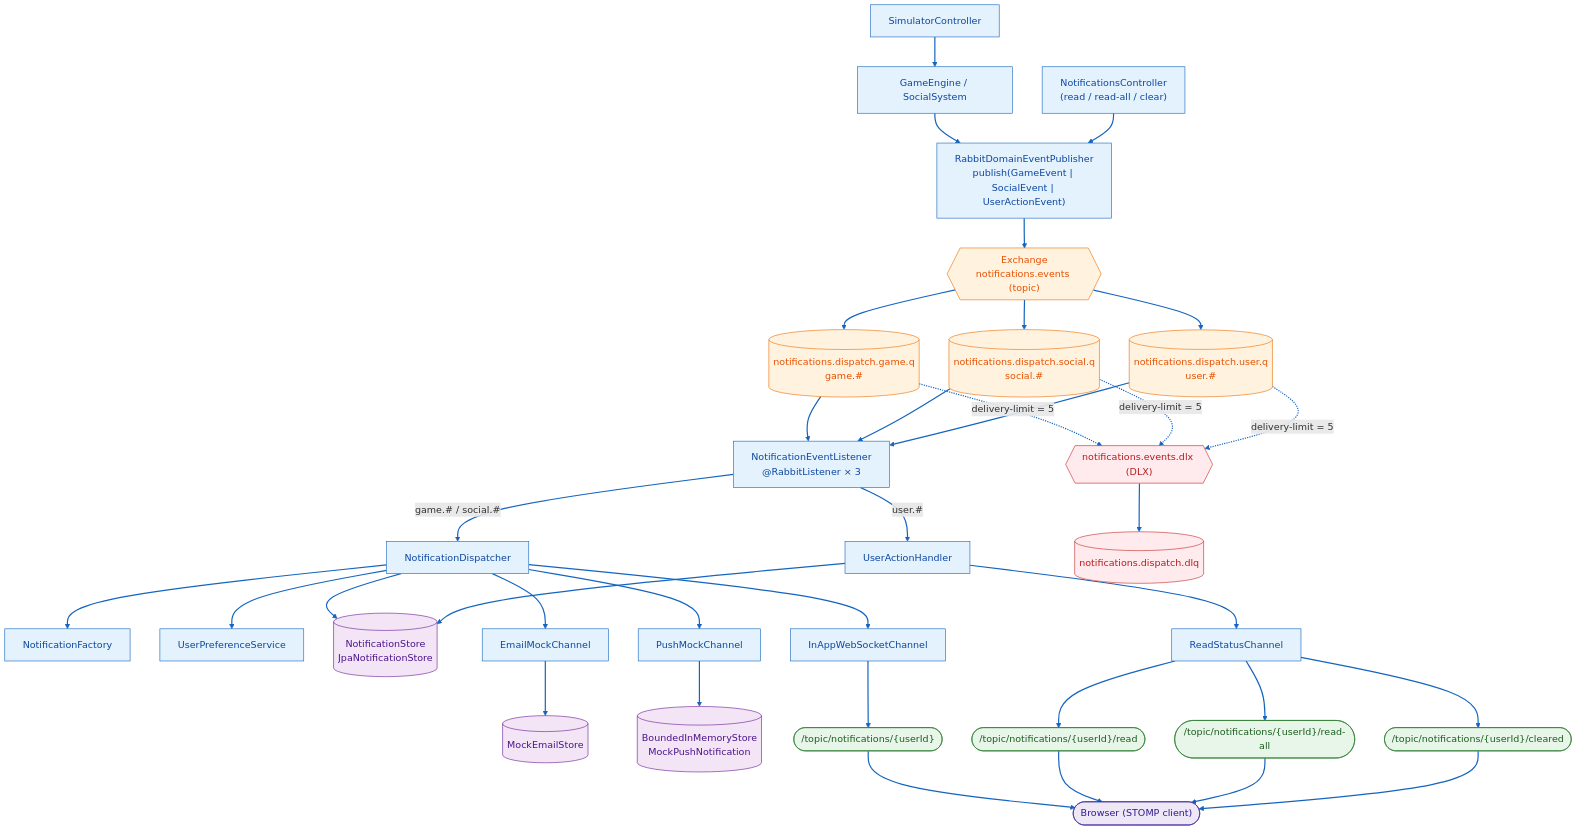
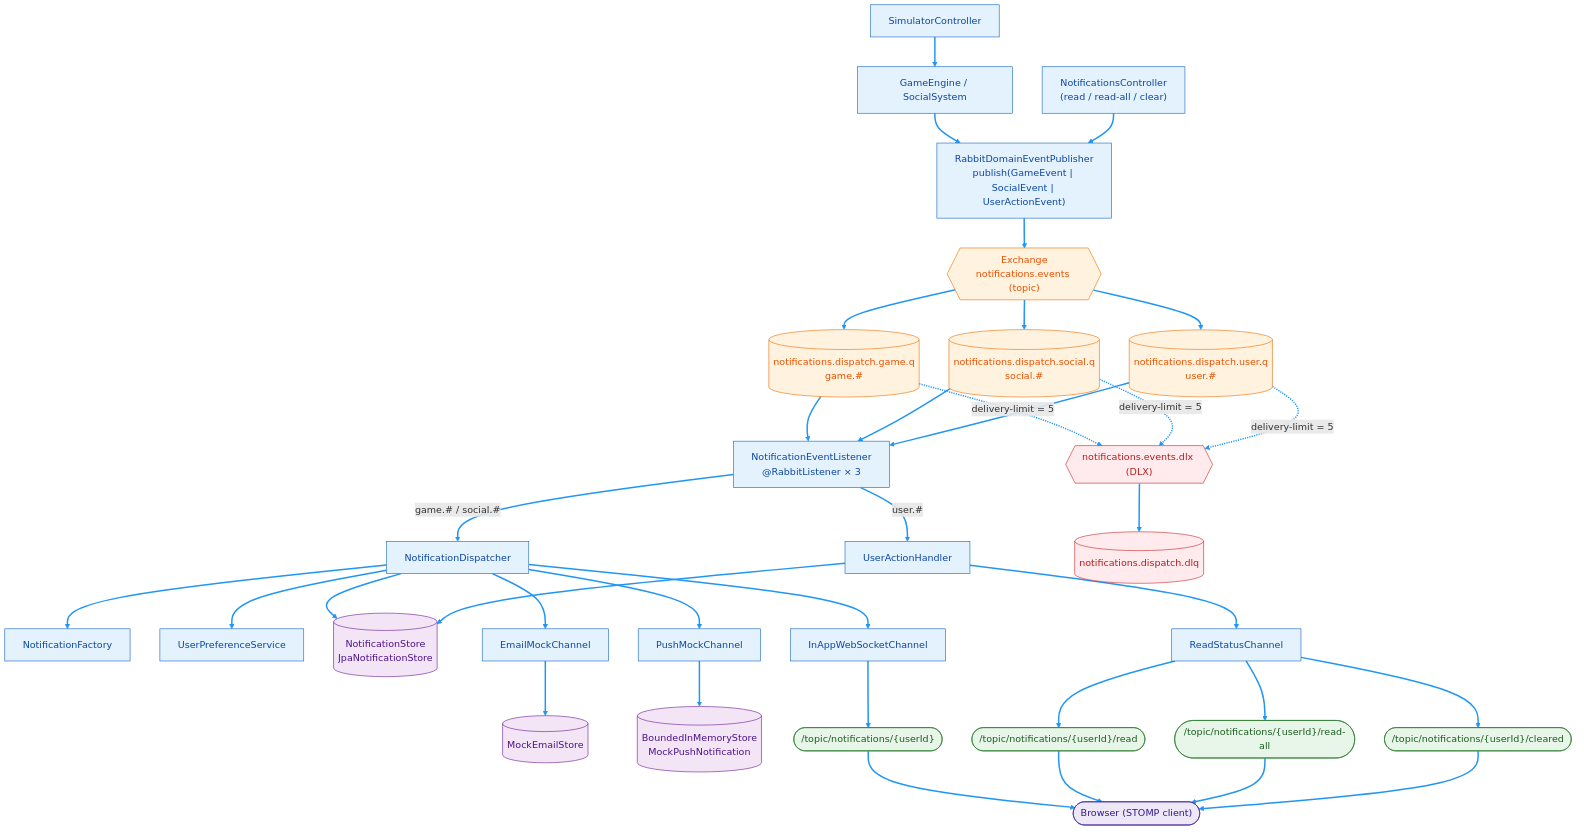
docs: render architecture diagram on white background for consistent contrast in both light and dark modes

Changed region(s): [[0.3093, 0.6859, 0.464, 0.717], [0.1547, 0.6859, 0.2475, 0.717], [0.7734, 0.9353, 0.8043, 0.9664]]

diff --git a/README.md b/README.md
@@ -90,7 +90,7 @@ Source: [`docs/event-flow.mmd`](docs/event-flow.mmd) (Mermaid). Regenerate with:
 ```sh
 docker run --rm -u "$(id -u):$(id -g)" -v "$PWD/docs":/data \
   minlag/mermaid-cli -i /data/event-flow.mmd -o /data/event-flow.png \
-  -w 1600 -H 1200 -b transparent
+  -w 1600 -H 1200 -b white
 ```
 
 If a message exceeds `x-delivery-limit` (5) attempts it is routed to the `notifications.events.dlx` DLX and ends up in the `notifications.dispatch.dlq` queue (purgeable with `make rabbit-purge`).